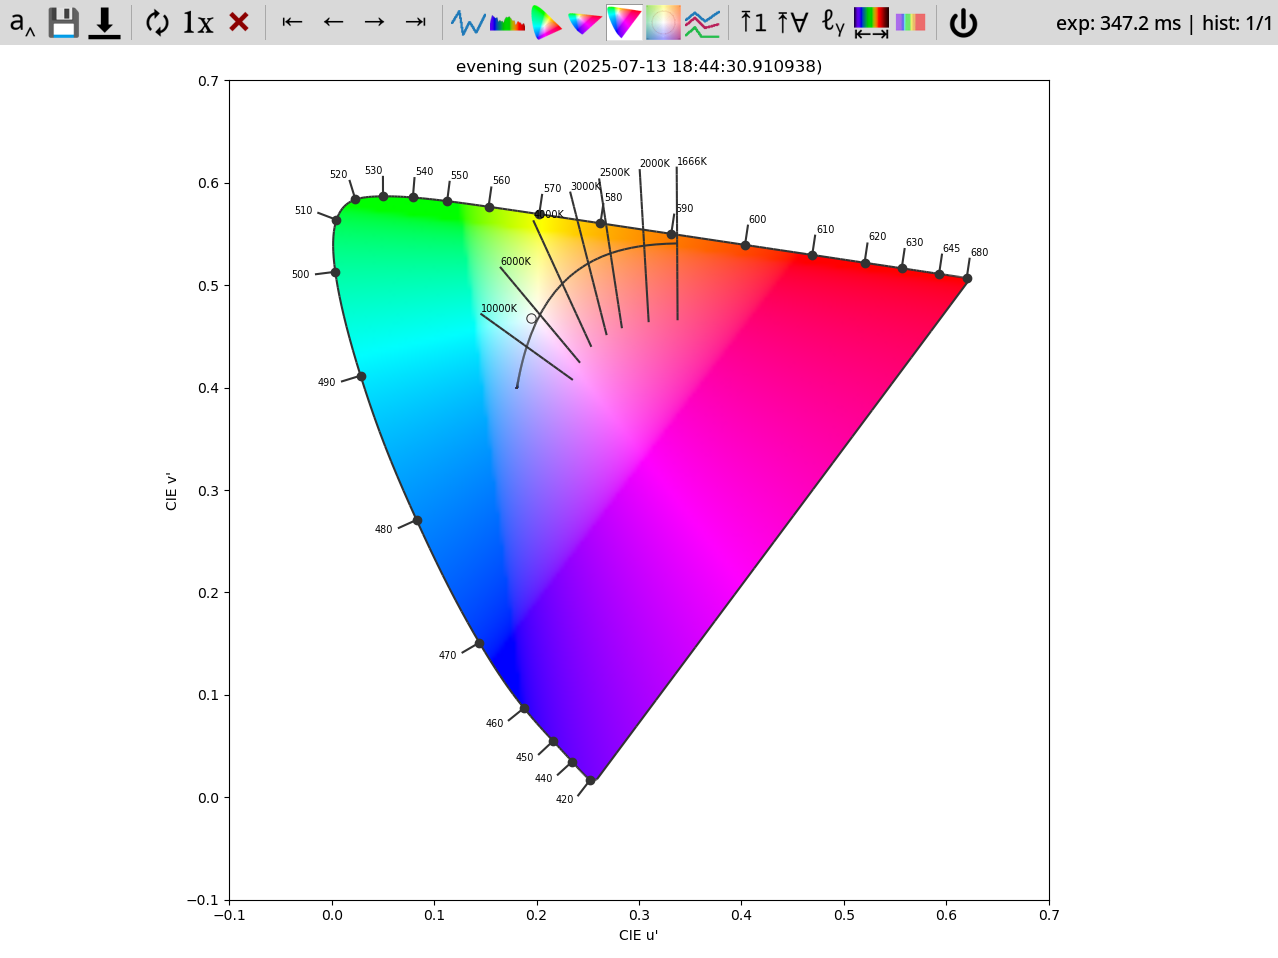
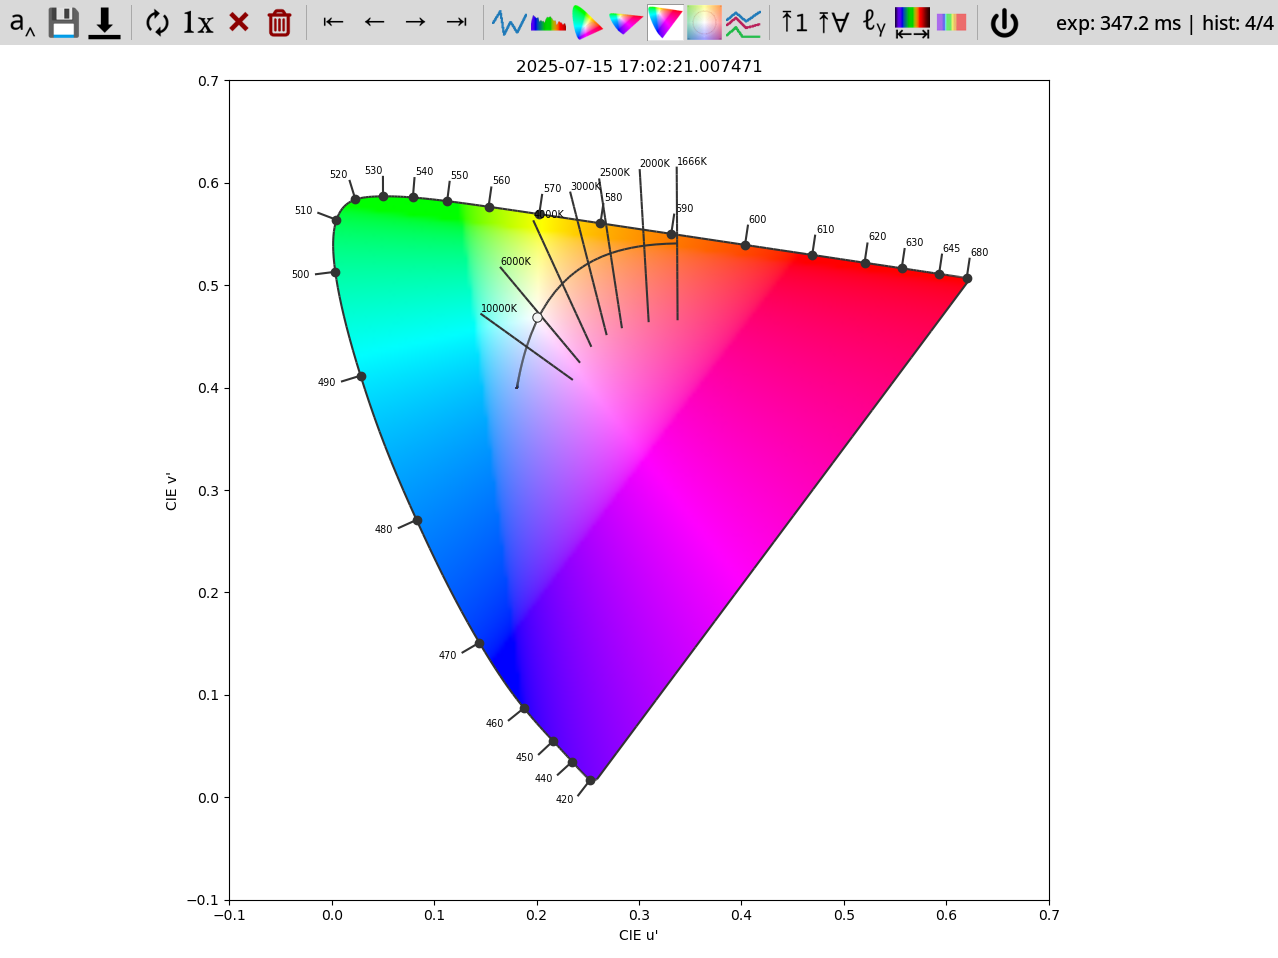
Document ClearTool, update screenshots

Changed region(s): [[0.3357, 0.0, 0.7934, 0.0908], [0.2136, 0.0, 0.2441, 0.0605], [0.9765, 0.0, 1.0, 0.0303]]

diff --git a/tobes_ui/plot.py b/tobes_ui/plot.py
@@ -157,6 +157,14 @@ class RefreshableSpectralPlot:
         self._history_index = len(self._history) - 1
         self._fixed_y_global = YAxisValues.from_list(self._history_yvals)
 
+    def remove_all_data(self):
+        """Remove all data from history and view"""
+        self._history = []
+        self._history_yvals = []
+        self._history_index = -1
+        self._fixed_y_global = None
+        self.dirty = True
+
     def remove_current_data(self):
         """Remove currently displayed data from history and view (if any)"""
         if not self.data:

diff --git a/tobes_ui/tools.py b/tobes_ui/tools.py
@@ -382,8 +382,7 @@ class ClearTool(ToolBase):
         super().__init__(*args, **kwargs)
     
     def trigger(self, *_args, **_kwargs):
-        while self.plot.data:
-            self.plot.remove_current_data()
+        self.plot.remove_all_data()
 
 
 class SpectrumOverlayTool(ToolToggleBase):

diff --git a/README.md b/README.md
@@ -82,6 +82,7 @@ There are several icons on the toolbar:
 | ![refresh](icons/refresh.png) | `R` | Keep refreshing data |
 | ![oneshot](icons/oneshot.png) | `1`, `O` | One good acquisition |
 | ![remove](icons/remove.png) | `Delete`, `X` | Remove the current spectrum data _(from UI)_ |
+| ![clear](icons/clear.png) | `-` | Remove all the spectrum data _(from UI)_ |
 | ![history start](icons/hist_start.png) | `Home`, `H` | Go to start of history |
 | ![history back](icons/hist_back.png) | `←`, `P` | Go to previous sample |
 | ![history forward](icons/hist_forward.png) | `→`, `N` | Go to next sample |
